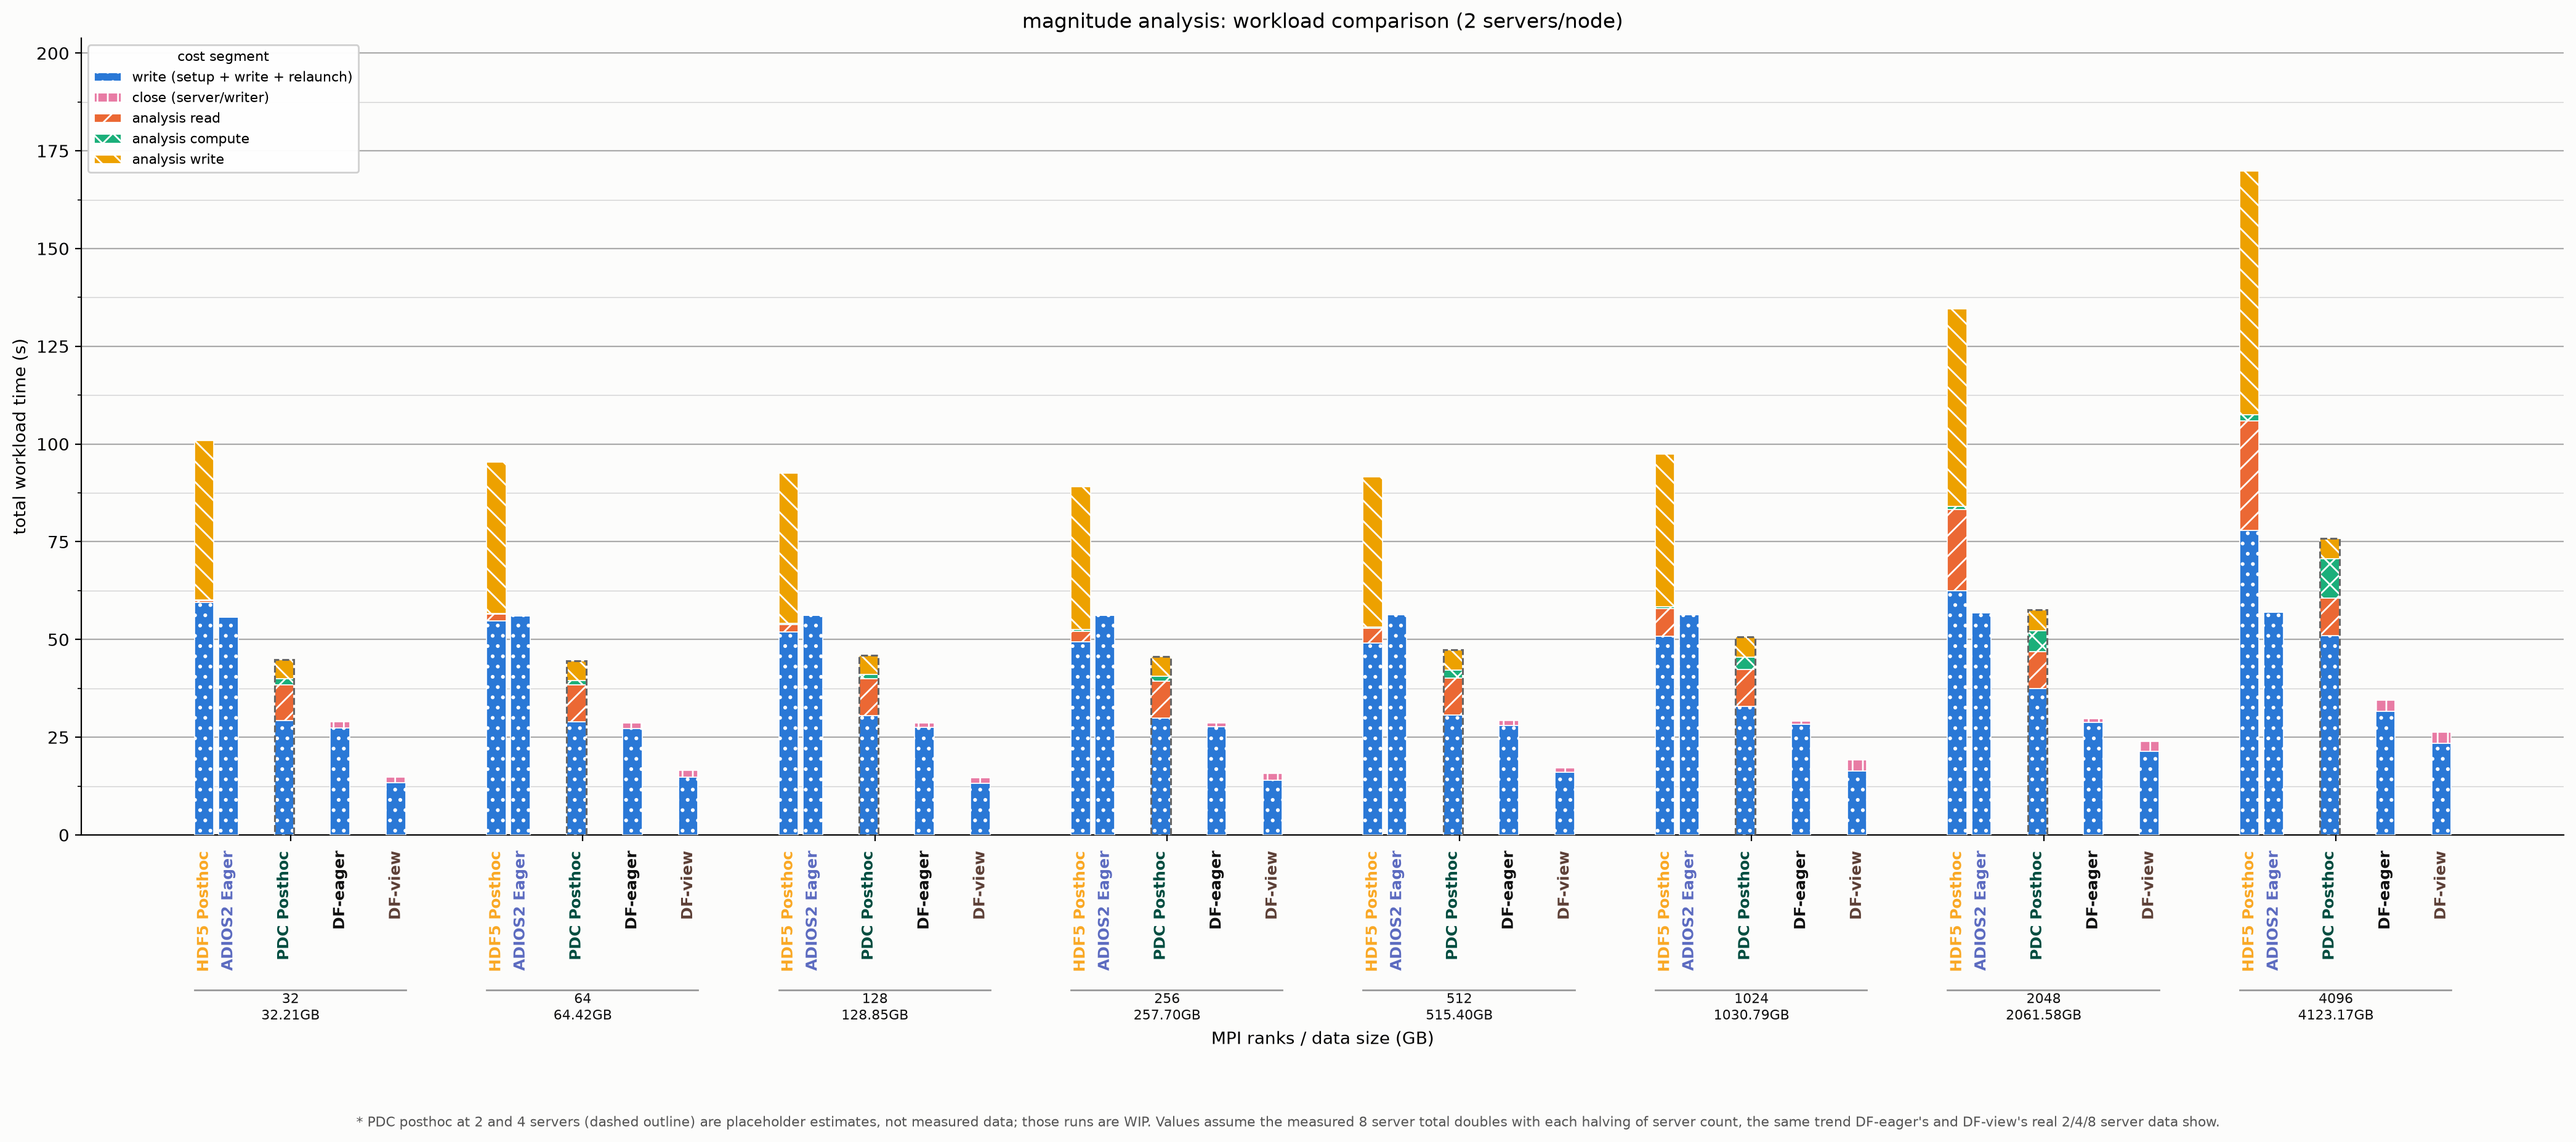
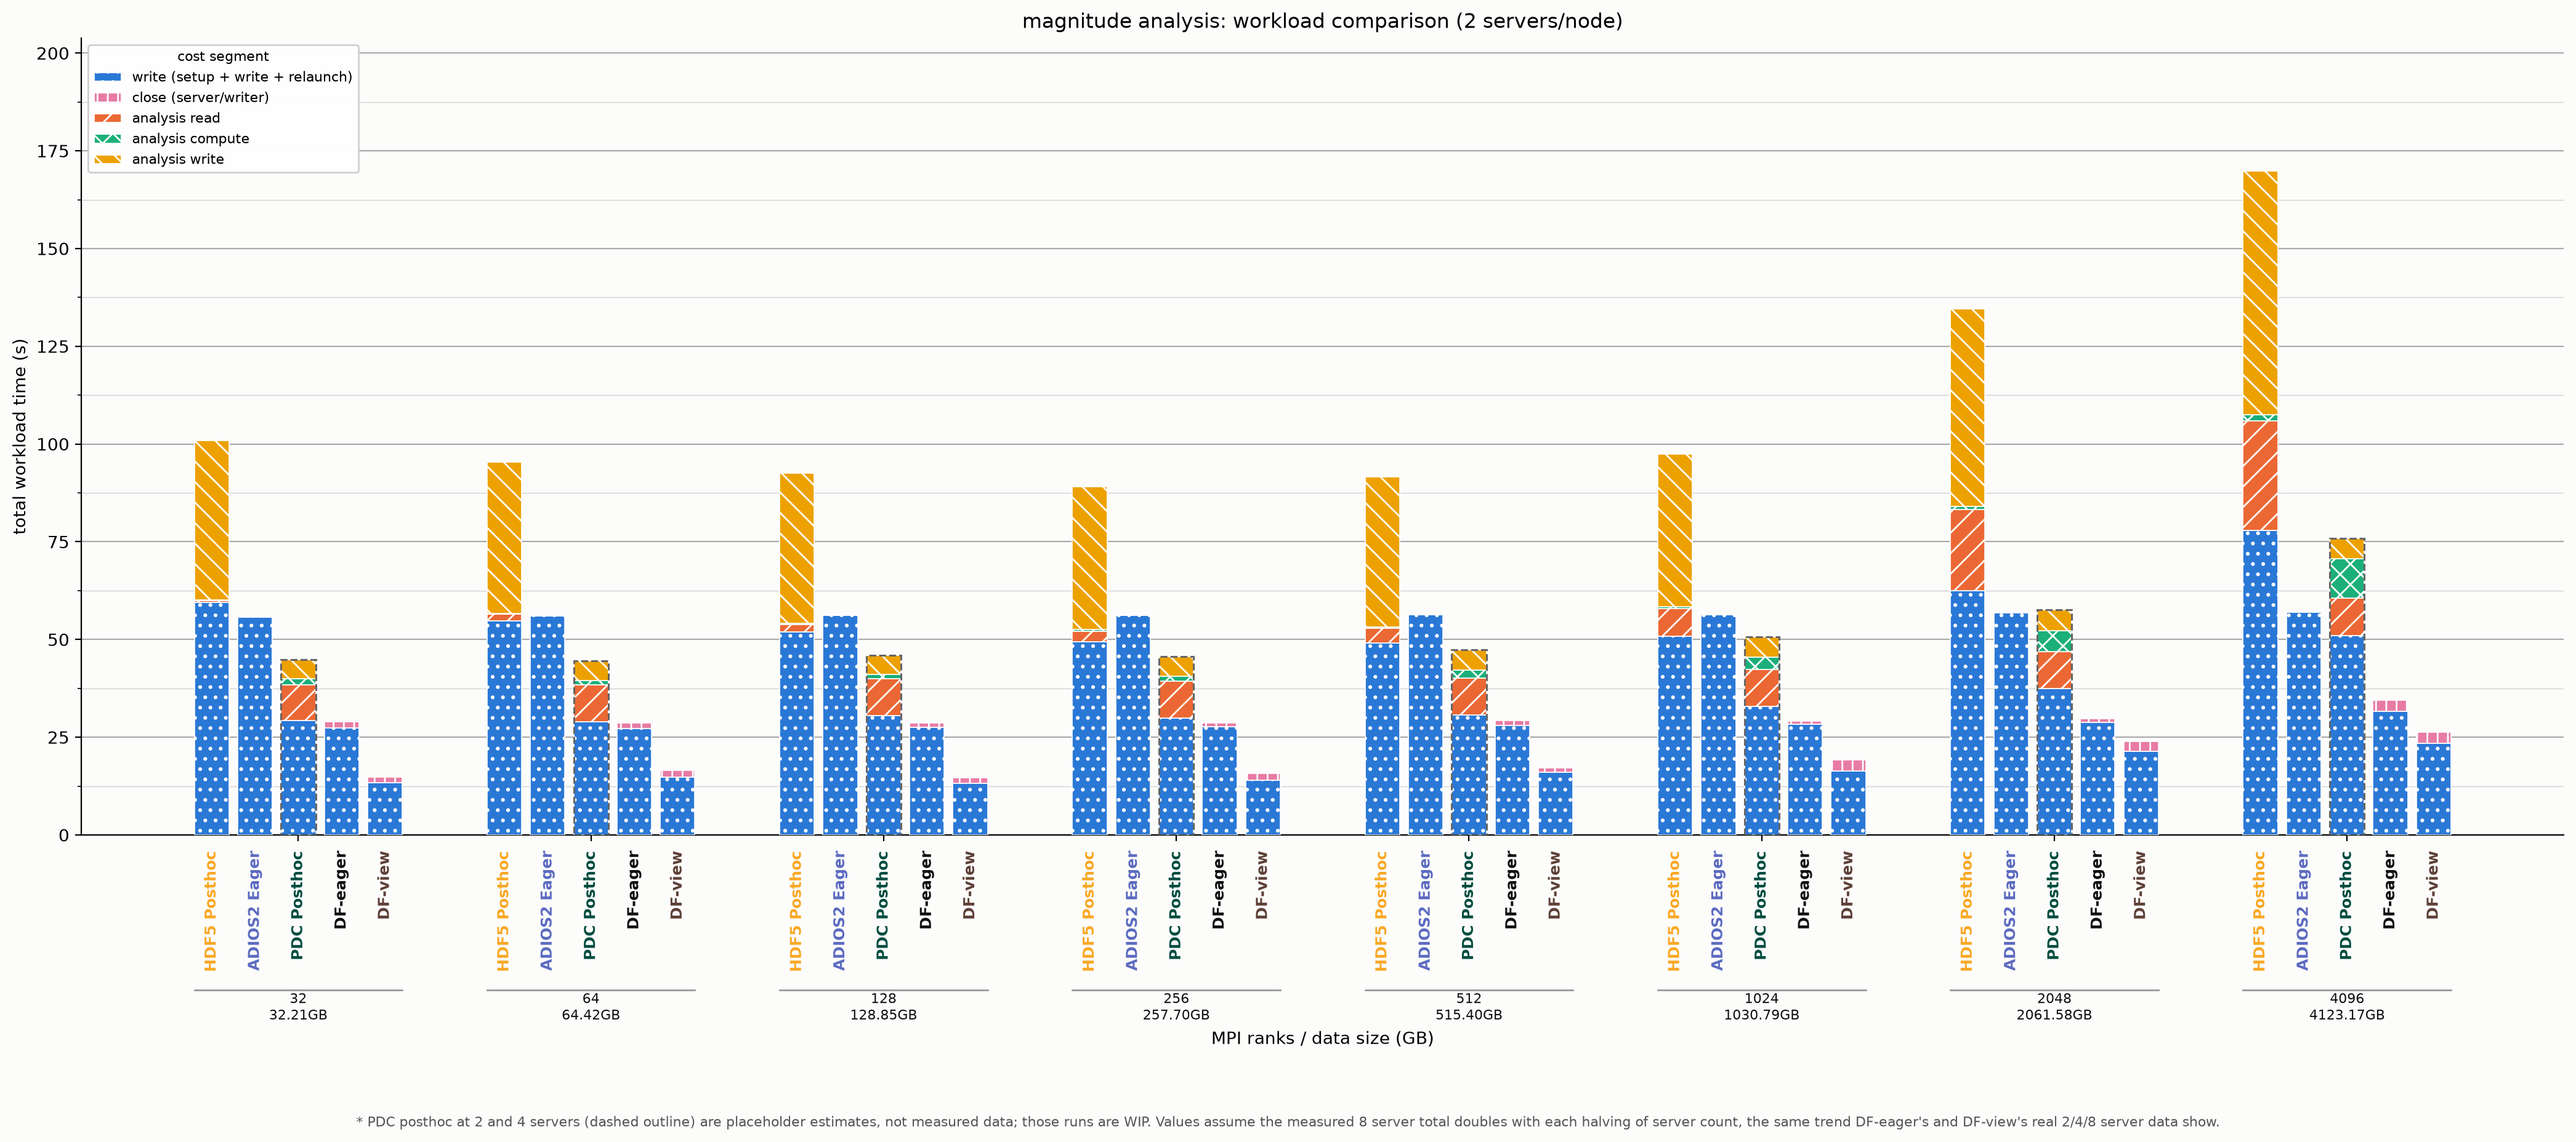
Fix uneven bar spacing in per-server-count magnitude plots
cluster_of() still grouped each MULTI_SERVER_MODES mode (posthoc/
eager/lazy) into its own cluster even when --server-count reduced it
to a single bar with no bracket -- so HDF5/ADIOS2 (the "single"
cluster) sat tight together while every swept mode still got a full
extra_gap inserted before it, producing visibly uneven spacing across
the group. A cluster only needs a gap when it actually gets a bracket
drawn (more than one server count), so cluster_of() now folds every
mode into the same "single" pseudo-cluster whenever len(server_counts)
== 1, giving uniform spacing exactly like the always-single-bar modes.
The combined (all server counts) chart is unaffected.

Claude-Session: https://claude.ai/code/session_018SQY4wo4xQPFn1NkY3KKc6

diff --git a/pdc_helper_scripts/plots/plot_magnitude_comparison.py b/pdc_helper_scripts/plots/plot_magnitude_comparison.py
@@ -509,8 +509,16 @@ def main():
     # GAP_RATIO) silently pushes the whole group past the 1.0 spacing
     # between rank-count groups and bars start overlapping their
     # neighboring group's bars instead of just each other.
+    # Only a MULTI_SERVER_MODES entry with more than one server count
+    # actually gets a bracket drawn (see the bracket-skip guard below) --
+    # with --server-count, every mode is back down to a single plain bar,
+    # so there's nothing to set apart with a gap and every bar should
+    # sit at the same uniform spacing, same as the single-bar modes
+    # (hdf5/adios2/highfive) already do.
     def cluster_of(key):
-        return key[0] if key[0] in MULTI_SERVER_MODES else "single"
+        if key[0] in MULTI_SERVER_MODES and len(server_counts) > 1:
+            return key[0]
+        return "single"
 
     n_transitions = sum(1 for a, b in zip(series, series[1:]) if cluster_of(a) != cluster_of(b))
     GAP_RATIO = 1.3
